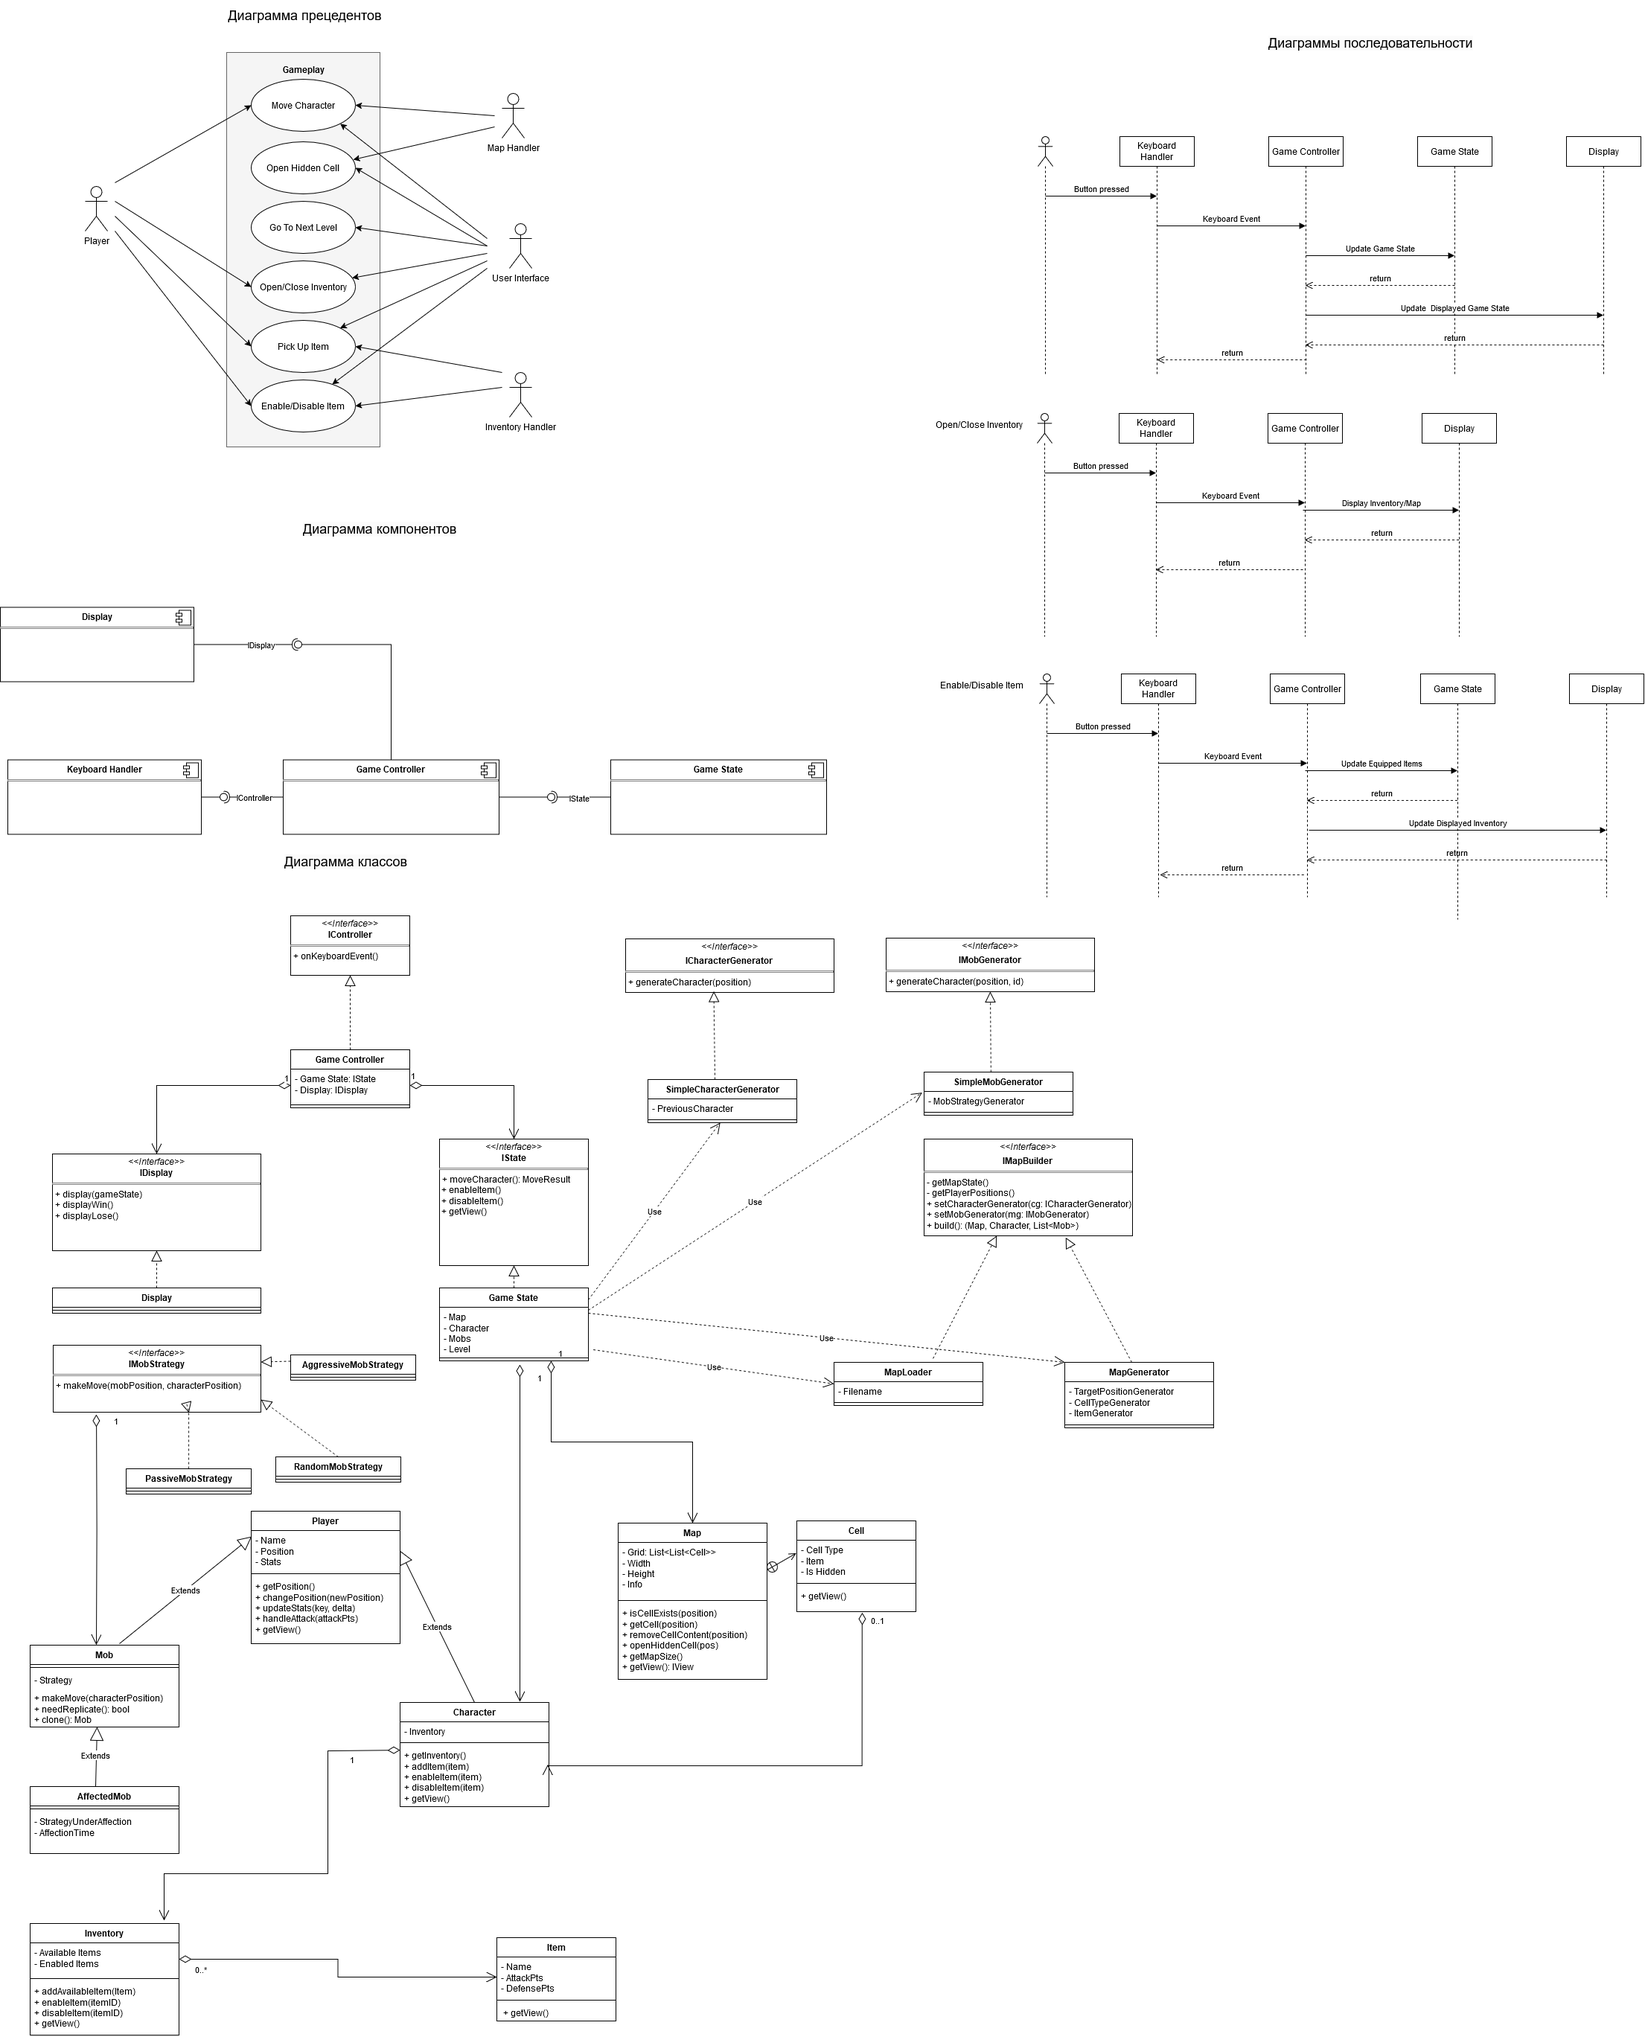
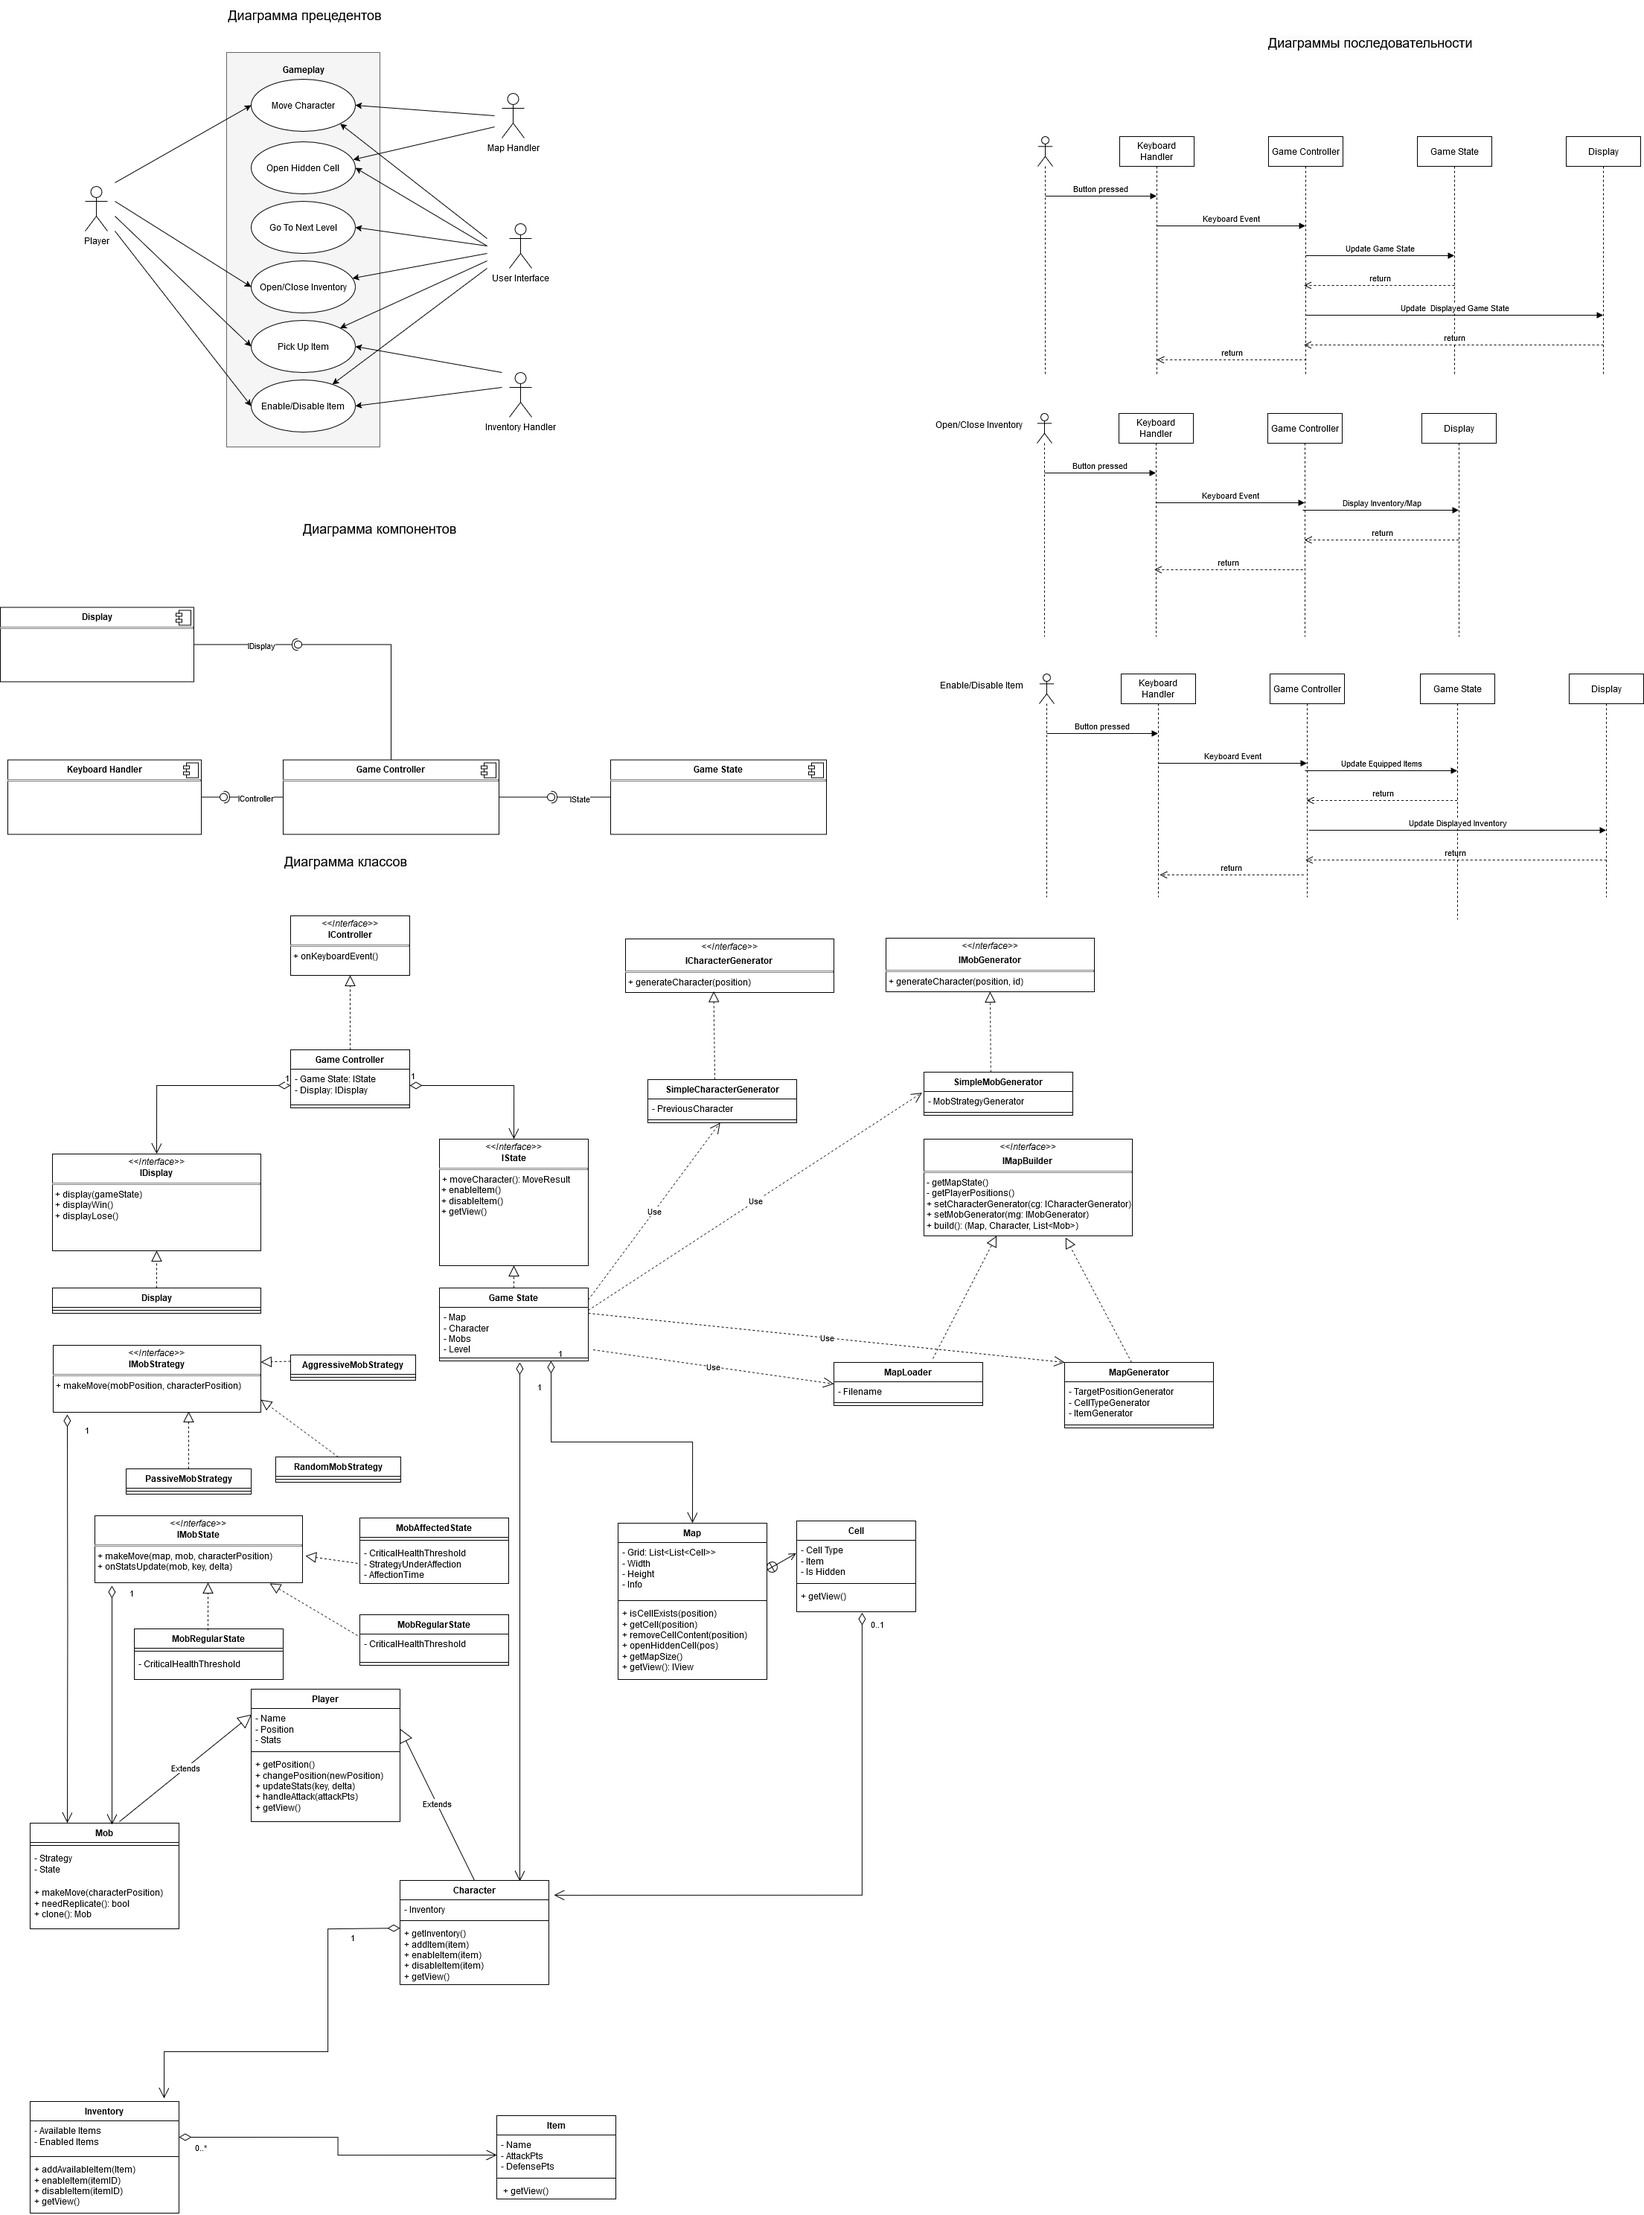
update docs

diff --git a/docs/Roguelike.md b/docs/Roguelike.md
@@ -23,8 +23,7 @@
 * **Map** соответствует карте текущего уровня, которая состоит из клеток **Cell**. В клетке **Cell** хранится информация о типе клетки **Cell Type** и предмете **Item**, если он там есть. Для предмета храним информацию об эффектах, которые он оказывает на характеристики персонажа, когда предмет активен.
 * **Player** соответствует одному из игроков на карте (персонажу или мобу). Для него хранится текущее положение, имя и игровые характеристики. 
 * **Character** наследуется от **Player** и соответствует игровому персонажу, для него допольнительно хранится информация об инвентаре **Inventory**.
-* **Mob** также наследуется от **Player** и соответствует мобу. Для него дополнительно хранится стратегия, в соответствии с которой он, зная текущее расположение персонажа, делает ход. Мобов можно реплицировать в соответствии с некоторой логикой (В текущей реализации моб реплицируется с некоторой вероятностью на каждом ходе).
-* Кроме того, есть подвид мобов, который называется **AffectedMob**. Моб такого вида временно меняет свою стратегию поведения, а после окончания заданного временного промежутка возвращается к исходной стратегии.
+* **Mob** также наследуется от **Player** и соответствует мобу. Для него дополнительно хранятся стратегия (в соответствии с которой он, зная текущее расположение персонажа, делает ход) и состояние ("паника", "аффект" или обычное; текущее состояние зависит от здоровья и времени, прошедшего с последнего сражения). Мобов можно реплицировать в соответствии с некоторой логикой (В текущей реализации моб реплицируется с некоторой вероятностью на каждом ходе).
 * Каждая стратегия поведения моба реализует интерфейс **IMobStrategy**. Всего есть три стратегии: **RandomMobStrategy** (выбирается случайный допустимый ход), **PassiveMobStrategy** (моб всё время остаётся на месте) и **AggressiveMobStrategy** (моб идёт в допустимую соседнюю клетку, которая минимизирует Манхэттонское расстояние до персонажа). 
 * На каждом уровне карта **Map**, положение персонажа **Character** и мобы строятся с помощью некоторой реализации интерфейса **IMapBuilder** (какой конкретно &mdash; зависит от уровня). Вся нужная информация может либо читаться из файла (как это сделано в классе **MapLoader**), либо генерироваться случайно (как это сделано в классе **MapGenerator**). Строитель карт параметризуется генератором персонажа и мобов (которые реализуют интерфейсы **ICharacterGenerator** и **IMobGenerator** соответственно).  
 * Каждый из указанных классов имеет метод **getView()**, который возвращает информацию об объекте по особому протоколу так, чтобы **Display** мог его корректно отобразить.
